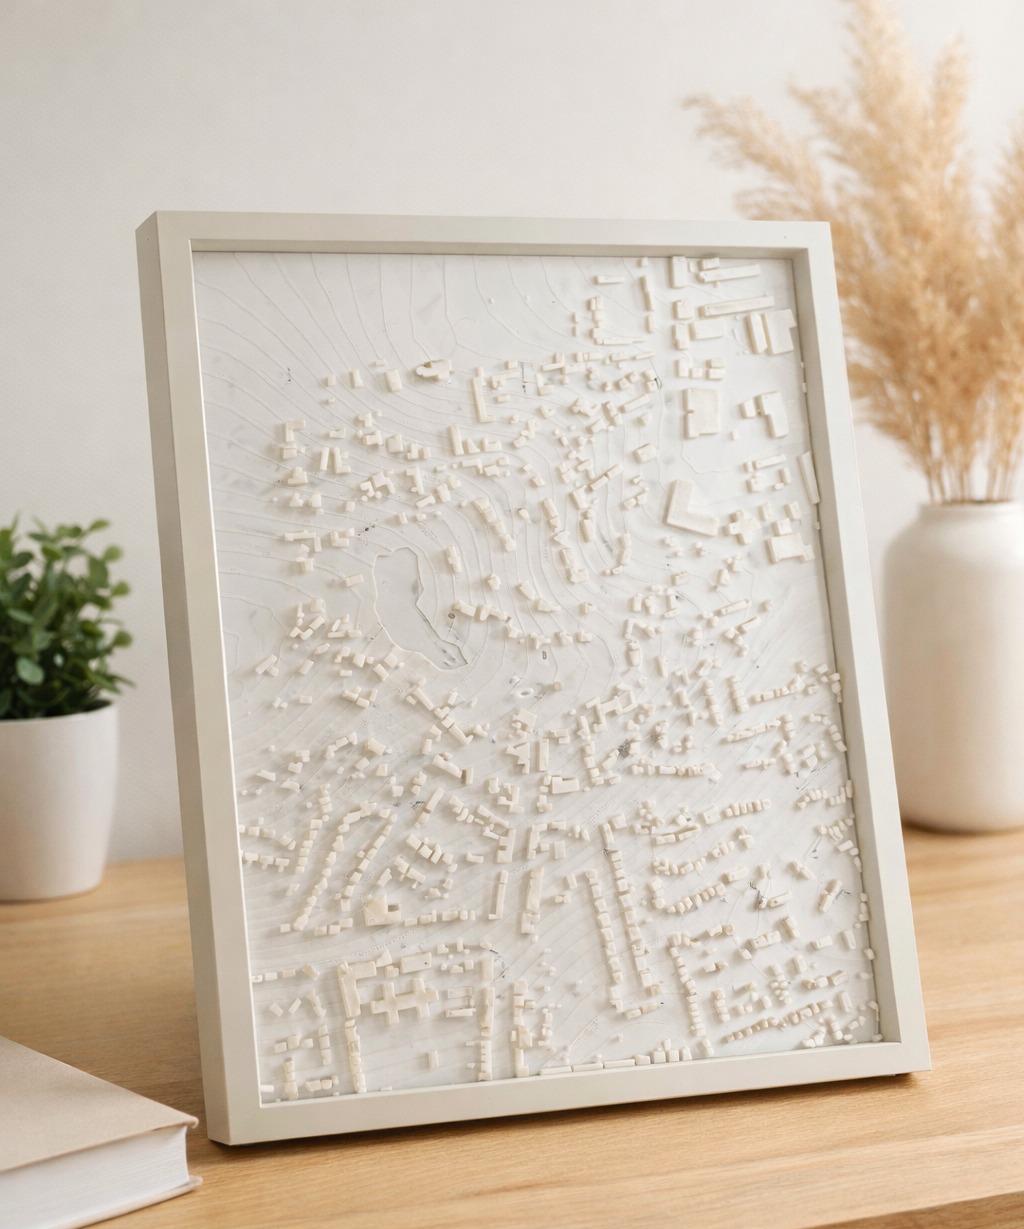
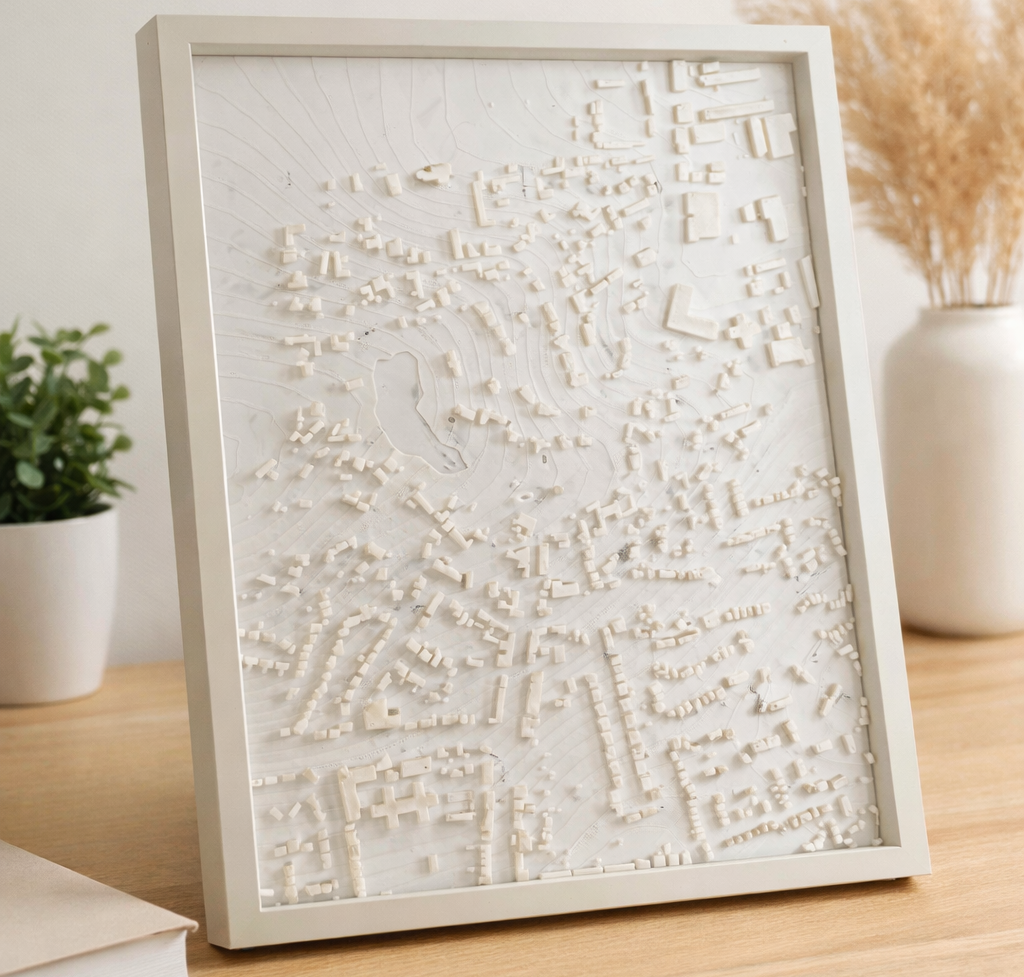
commit

diff --git a/assets/css/styles.css b/assets/css/styles.css
@@ -48,7 +48,7 @@ body::before{
 
 /* NAV */
 nav{
-  position:fixed;top:0;left:0;right:0;z-index:500;
+  position:fixed;top:0;left:0;right:0;z-index:1100;
   height:60px;display:flex;align-items:center;justify-content:space-between;
   padding:0 32px;background:rgba(247,244,239,0.92);backdrop-filter:blur(12px);
   border-bottom:1px solid var(--border);
@@ -107,7 +107,7 @@ nav{
 #storePage{padding-top:60px;min-height:100vh}
 
 /* HERO */
-.hero{background:var(--ink);min-height:92vh;display:grid;grid-template-columns:1fr 1fr;overflow:hidden;}
+.hero{background:var(--ink);min-height:calc(100vh - 60px);display:grid;grid-template-columns:1fr 1fr;overflow:hidden;}
 .hero-left{padding:72px 56px;display:flex;flex-direction:column;justify-content:center;}
 .hero-tag{
   display:inline-flex;align-items:center;gap:8px;background:rgba(201,79,44,0.15);
@@ -128,8 +128,18 @@ nav{
 .hero-proof{display:flex;gap:28px;margin-top:44px;border-top:1px solid rgba(245,240,232,0.08);padding-top:32px;}
 .proof-item .num{font-family:var(--serif);font-size:28px;font-weight:300;color:#f5f0e8;}
 .proof-item .lbl{font-size:11px;color:rgba(245,240,232,0.5);letter-spacing:0.04em;margin-top:2px;}
+.proof-num-row{display:flex;align-items:baseline;gap:10px;}
+.proof-trend{font-size:13px;font-weight:500;color:#4ade80;white-space:nowrap;}
 
 .hero-right{position:relative;overflow:hidden;background:linear-gradient(135deg,#2a2420 0%,#1a1714 100%);}
+.hero-image{
+  width:100%;
+  height:100%;
+  object-fit:cover;
+  object-position:50% 50%;
+  transform:translateY(0%);
+  display:block;
+}
 .topo-art{position:absolute;inset:0;display:flex;align-items:center;justify-content:center;opacity:0.22;}
 .topo-art svg{width:88%;height:88%}
 

diff --git a/index.html b/index.html
@@ -66,13 +66,16 @@
       <a href="#how" class="btn btn-outline">How it works</a>
     </div>
     <div class="hero-proof">
-      <div class="proof-item"><div class="num">847</div><div class="lbl">Sculptures made</div></div>
+      <div class="proof-item">
+        <div class="proof-num-row"><div class="num">35</div><span class="proof-trend">&#8593; 3 this week</span></div>
+        <div class="lbl">Sculptures made</div>
+      </div>
       <div class="proof-item"><div class="num">4.9&#9733;</div><div class="lbl">Average rating</div></div>
       <div class="proof-item"><div class="num">100%</div><div class="lbl">UK made</div></div>
     </div>
   </div>
   <div class="hero-right">
-    <img src="./assets/imgs/74c45980-8acc-4220-b7b1-4b813a2ba1a1.png" alt="Polyplaces 3D map sculpture hero image" style="width: 100%; height: auto; display: block;"/>
+    <img class="hero-image" src="./assets/imgs/74c45980-8acc-4220-b7b1-4b813a2ba1a1.png" alt="Polyplaces 3D map sculpture hero image"/>
   </div>
 </section>
 

diff --git a/store/index.html b/store/index.html
@@ -89,7 +89,7 @@
               <input type="number" id="custom-height" class="custom-size-input" min="100" max="330" value="200" step="1" autocomplete="off"/>
             </div>
           </div>
-          <p class="custom-size-hint">Enter your desired print size. Max 330&times;330mm.</p>
+          <p class="custom-size-hint">Enter your desired size. Max 330&times;330mm.</p>
           <p class="custom-size-surcharge-note" id="custom-size-surcharge-note" hidden>A &pound;5 large-format surcharge applies above 250mm.</p>
         </div>
 